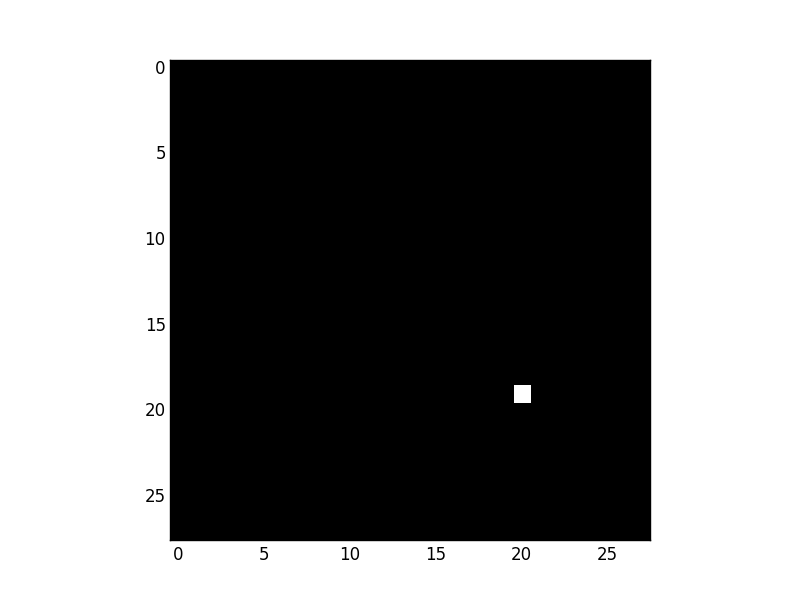
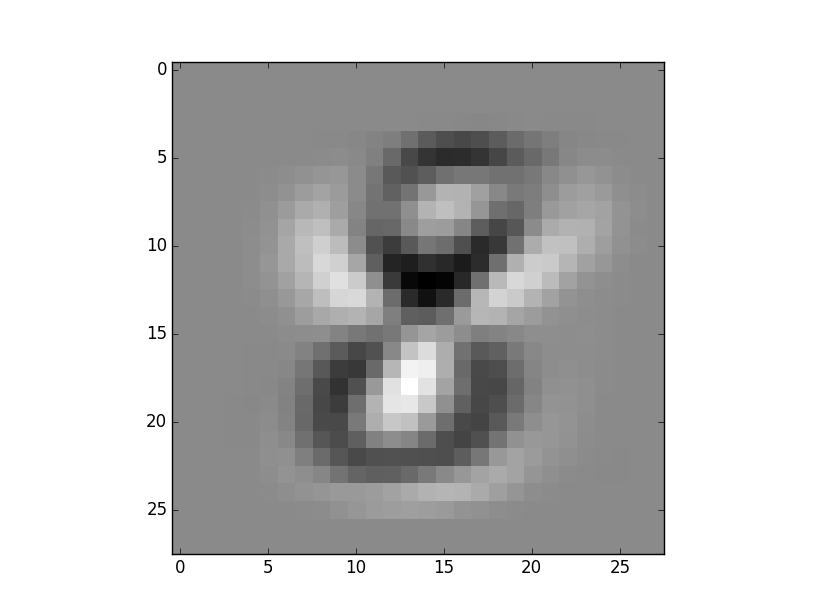
fix ex6 section a and b and c add section d

diff --git a/HW4/q6.py b/HW4/q6.py
@@ -4,11 +4,14 @@ from sklearn.datasets import fetch_mldata
 import sklearn.preprocessing
 import os
 import numpy as np
+import plotly.plotly as py
 # import matplotlib
 # matplotlib.use('Agg')
 import matplotlib.pyplot as plt
 
 # Training params
+from sklearn.decomposition import RandomizedPCA
+
 from HW4.PCA import PCA
 
 NOF_EIGENVALUES = 100
@@ -67,7 +70,7 @@ def plot_graph(error_lst, x_lst, file_name='', label='', title='', ylabel='', xl
     plt.savefig('{}.png'.format(file_name))
 
 
-def part_a_and_b(org_train, org_train_labels, label=1, section='a', both=0):
+def part_a_and_b_and_c(org_train, org_train_labels, label=1, section='a', both=0):
     """
     This function implements part a and b.
     This function will plot Iteration Vs Accuracy training and testing error
@@ -86,6 +89,7 @@ def part_a_and_b(org_train, org_train_labels, label=1, section='a', both=0):
         train_dataset = sklearn.preprocessing.scale(train_data_unscaled, axis=0, with_std=False)
     else:
         # the train data should not change (its already for both labels
+        num = "0&8"
         train_dataset = org_train
         train_data_mean = np.mean(train_dataset, axis=0)
 
@@ -96,12 +100,12 @@ def part_a_and_b(org_train, org_train_labels, label=1, section='a', both=0):
 
     # Do PCA
     pca = PCA(train_dataset)
-    u, d = pca.run(dim=100)
+    u, d, v = pca.run(dim=100)
 
     # Save the eigen-vectors
     for i in range(NOF_EIGENVECTORS):
         plt.figure()
-        plt.imshow(np.reshape(u[i], (28, 28)), interpolation='nearest', cmap='gray')
+        plt.imshow(np.reshape(v[i], (28, 28)), interpolation='nearest', cmap='gray')
         plt.savefig('q6_part_{}_i{}_label_{}'.format(section, i, num))
 
     # Save the eigenvalues
@@ -109,6 +113,22 @@ def part_a_and_b(org_train, org_train_labels, label=1, section='a', both=0):
     plot_graph(d, range(1, NOF_EIGENVALUES + 1), "q6_part_{}_label_{}".format(section, num), "",
                "Iteration vs EigenValues",
                "EigenValues", "Iteration")
+
+
+def part_d(train_dataset, org_train_labels):
+    """
+    This function implements part d.
+    This function will plot Iteration Vs Accuracy training and testing error
+    """
+
+    # Do PCA
+    pca = PCA(train_dataset)
+    u, d, v = pca.run(dim=2)
+    mat_data = np.dot(train_dataset, np.transpose(v))
+    plt.figure()
+    plt.scatter(mat_data[:, 0], mat_data[:, 1], c=org_train_labels)
+    plt.savefig("q6_part_d.png")
+    plt.savefig("mnist_pca.png")
 
 
 def get_label_dataset(org_train, org_train_labels, label):
@@ -124,25 +144,17 @@ def get_label_dataset(org_train, org_train_labels, label):
     return training_dataset_label
 
 
-def part_b(t_lst, loss_test_lst, loss_train_lst):
-    """
-    This function implements part b.
-    This function will plot Iteration Vs Accuracy training and testing error
-    """
-
-    plt.figure()
-    plot_graph(loss_test_lst, t_lst, "q5_part_b", "", "Iteration vs Loss", "Loss", "Iteration")
-    plot_graph(loss_train_lst, t_lst, "q5_part_b", "", "Iteration vs Loss", "Loss", "Iteration")
-
-
 if __name__ == '__main__':
     # Get train, validation and test data
     org_train, org_train_labels = get_train_validation_test_data()
 
     # Part A - only number 8
-    part_a_and_b(org_train, org_train_labels, label=1, section='a')
+    part_a_and_b_and_c(org_train, org_train_labels, label=1, section='a')
     # Part B - only number 0
-    part_a_and_b(org_train, org_train_labels, label=-1, section='b')
+    part_a_and_b_and_c(org_train, org_train_labels, label=-1, section='b')
     # Part C - both numbers 0 and 1
-    part_a_and_b(org_train, org_train_labels, label=-1, section='c', both=1)
+    part_a_and_b_and_c(org_train, org_train_labels, label=-1, section='c', both=1)
+
+    # Part D
+    part_d(org_train, org_train_labels)
     print 'end'

diff --git a/HW4/PCA.py b/HW4/PCA.py
@@ -16,8 +16,8 @@ class PCA:
         """
         This function run the PCA
         :param dim:
-        :return:
+        :return: Returns columns in U and rows in v
         """
         conv_mat = np.dot(np.transpose(self._data), self._data)
         u, d, v = np.linalg.svd(conv_mat)
-        return u[:dim], d[:dim]
+        return u[:, :dim], d[:dim], v[:dim]
